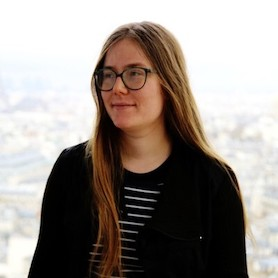
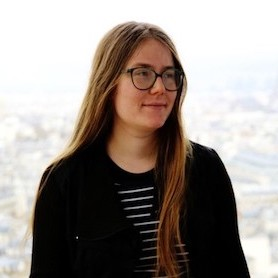
Fix Emmas profile, made CTA optional for graphPreview

diff --git a/src/pages/AboutPage.tsx b/src/pages/AboutPage.tsx
@@ -4,7 +4,7 @@ import styles from '../styles/AboutPage.module.less';
 import { ReactComponent as Distance } from '../assets/social_distancing.svg';
 import { UserProfile } from '../components/userProfile';
 import { MemberProfile } from '../components/teamMember';
-import { ianProfile, gianlucaProfile, cameliaProfile, rachaelProfile, svetlanaProfile, linaProfile, kellyProfile } from '../assets/assets.index';
+import { ianProfile, gianlucaProfile, cameliaProfile, rachaelProfile, svetlanaProfile, linaProfile, kellyProfile, emmaProfile } from '../assets/assets.index';
 import { useHistory } from 'react-router-dom';
 import { ExternalRoutes } from '../routes';
 interface Props {}
@@ -119,12 +119,7 @@ export const AboutPage: React.FC<Props> = () => {
           </Col>
 
           <Col flex={1.66} className={styles.TeamProfileRow} order={randProfileOrder()}>
-            <MemberProfile
-              name="Svetlana M"
-              position="UI/UX"
-              bio="Passionate about learning and teaching, UX UI designer, linguist, copywriter and translator"
-              photo={svetlanaProfile}
-            />
+            <MemberProfile name="Svetlana M" position="UI/UX" bio="Passionate about learning & teaching, UX UI designer, linguist and  copywriter" photo={svetlanaProfile} />
           </Col>
           <Col flex={1.66} className={styles.TeamProfileRow} order={randProfileOrder()}>
             <MemberProfile name="Lina Hayek" position="Design Consultant" bio="Design & Communication Strategy" photo={linaProfile} />
@@ -136,6 +131,14 @@ export const AboutPage: React.FC<Props> = () => {
               position="Undergraduate Programmer & Researcher"
               bio="I worked on data collection, data analysis, website styling, and video editing"
               photo={kellyProfile}
+            />
+          </Col>
+          <Col flex={1.66} className={styles.TeamProfileRow} order={randProfileOrder()}>
+            <MemberProfile
+              name="Emma Barme"
+              position="Computer Science Research & Implementation"
+              bio="Literature review, data preprocessing, quantitative and qualitative analysis"
+              photo={emmaProfile}
             />
           </Col>
         </Row>

diff --git a/src/pages/DataPage.tsx b/src/pages/DataPage.tsx
@@ -72,6 +72,7 @@ export const DataPage: React.FC<Props> = () => {
         <Col>
           <GraphPreview
             modalTitle="How is CRANE computing the frequency of sinophobic slurs?"
+            displayCTA={true}
             title="Methods"
             textContent={
               'The dataset contains dated tweets. For each tweet, the text is searched for each slur in the provided list. Counts are aggregated by day (respectively week) then divided by the dataset total number of tweets from that day (resp. week) to obtain the frequency. This analysis is run in Python.'
@@ -363,6 +364,7 @@ export const DataPage: React.FC<Props> = () => {
           <GraphPreview
             modalTitle="How is CRANE computing evolution of topics linked to specific keywords?"
             title="Methods"
+            displayCTA={true}
             textContent={
               'The dataset is split into monthly datasets. Each monthly dataset is used to train a word embedding model through the word2vec algorithm. A list of keywords is provided to all the models. For each keyword, forty words are extracted: they are those used in a context the most similar to that of the given keyword. The words are then topic coded by humans. This analysis is run in Python (preprocessing) and C (word2vec).'
             }

diff --git a/src/components/graphPreview.tsx b/src/components/graphPreview.tsx
@@ -16,6 +16,7 @@ interface Props {
   hoverText?: string;
   hoverColor?: COLORS;
   downloadLink?: string;
+  displayCTA?: boolean;
 }
 
 export const GraphPreview: React.FC<Props> = (props: Props) => {
@@ -49,21 +50,23 @@ export const GraphPreview: React.FC<Props> = (props: Props) => {
 };
 
 const ModalContent: React.FC<Props> = (props: Props) => {
-  const { modalTitle, textContent, graph } = props;
+  const { modalTitle, textContent, graph, displayCTA } = props;
   let history = useHistory();
   return (
     <div className={styles.ModalContentWrapper}>
       <h1 className={styles.ModalTitle}>{modalTitle}</h1>
       {graph}
       <body>{textContent}</body>
-      <Button
-        className={styles.ActionButton}
-        onClick={() => {
-          history.push(ExternalRoutes.GITHUB);
-        }}
-      >
-        Access our research Repo
-      </Button>
+      {displayCTA ? (
+        <Button
+          className={styles.ActionButton}
+          onClick={() => {
+            history.push(ExternalRoutes.GITHUB);
+          }}
+        >
+          Access our research Repo
+        </Button>
+      ) : null}
     </div>
   );
 };

diff --git a/src/assets/assets.index.ts b/src/assets/assets.index.ts
@@ -8,6 +8,7 @@ export { default as svetlanaProfile } from './profilePhotos/svetlana_profile.jpg
 export { default as linaProfile } from './profilePhotos/lina_profile.jpg';
 export { default as kellyProfile } from './profilePhotos/kelly_profile.jpg';
 export { default as gianlucaProfile } from './profilePhotos/gianluca_profile.jpg';
+export { default as emmaProfile } from './profilePhotos/emma_profile.jpg';
 
 /**
  * Social Icons

diff --git a/src/styles/teamMember.module.less b/src/styles/teamMember.module.less
@@ -57,13 +57,14 @@
 }
 
 .Bio {
-    padding: 0.5em;
+    padding: 1rem;
+    padding-top: 0;
     position: relative;
     bottom: 2.0rem;
     font-family: 'Roboto';
     font-style: normal;
     font-weight: normal;
-    font-size: 1.25rem;
+    font-size: 1rem;
     text-align: center;
     color: #292929;
     height: 100%

diff --git a/src/pages/SupportPage.tsx b/src/pages/SupportPage.tsx
@@ -195,6 +195,7 @@ export const SupportPage: React.FC<Props> = () => {
         </Col>
       </Row>
       <div style={{ marginBottom: '3rem' }} />
+      <div className={styles.CreditText}>Icons made by Freepik from www.flaticon.com</div>
     </div>
   );
 };

diff --git a/src/styles/SupportPage.module.less b/src/styles/SupportPage.module.less
@@ -114,3 +114,10 @@
   padding: 1vw;
   text-align: center;
 }
+
+
+.CreditText { 
+  padding: 1rem;
+  font-size: 0.5rem;
+  color: #616161
+}
